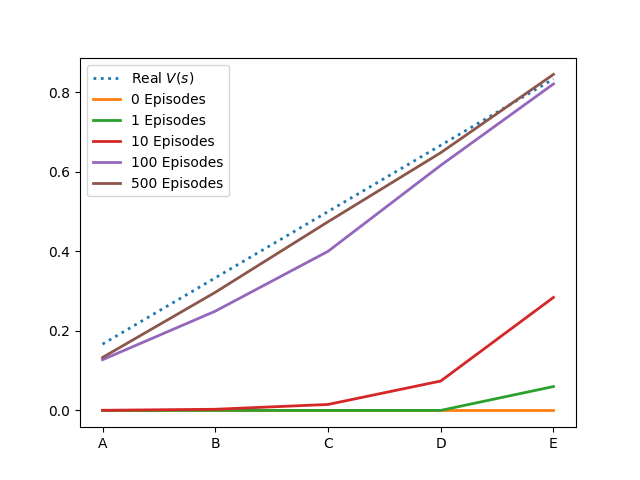
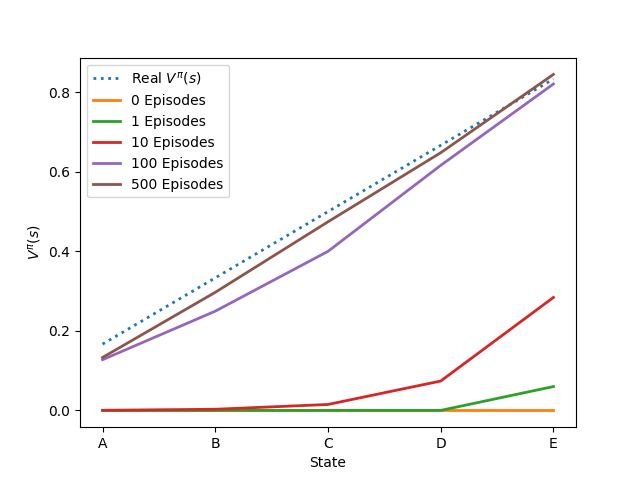
RW

Changed region(s): [[0.1562, 0.1562, 0.3438, 0.4375], [0.4688, 0.9375, 0.5312, 0.9688], [0.0312, 0.4688, 0.0625, 0.5312]]

diff --git a/Reinforcement Learning/Random Walk/RW.py b/Reinforcement Learning/Random Walk/RW.py
@@ -74,9 +74,12 @@ for idx,preds in enumerate(res):
 states = real_V.keys()
 real_vals = real_V.values()
 
-plt.plot(states, real_vals,linestyle='dotted', label='Real $V(s)$', linewidth=2)
+
+plt.plot(states, real_vals,linestyle='dotted', label=f'Real $V^\pi(s)$', linewidth=2)
 for idx,v in enumerate(res):
     plt.plot(states, v.values(), linestyle='solid', label=f'{episodes_lst[idx]} Episodes', linewidth=2)
 
+plt.xlabel("State")
+plt.ylabel("$V^\pi(s)$")
 plt.legend()
 plt.show()
